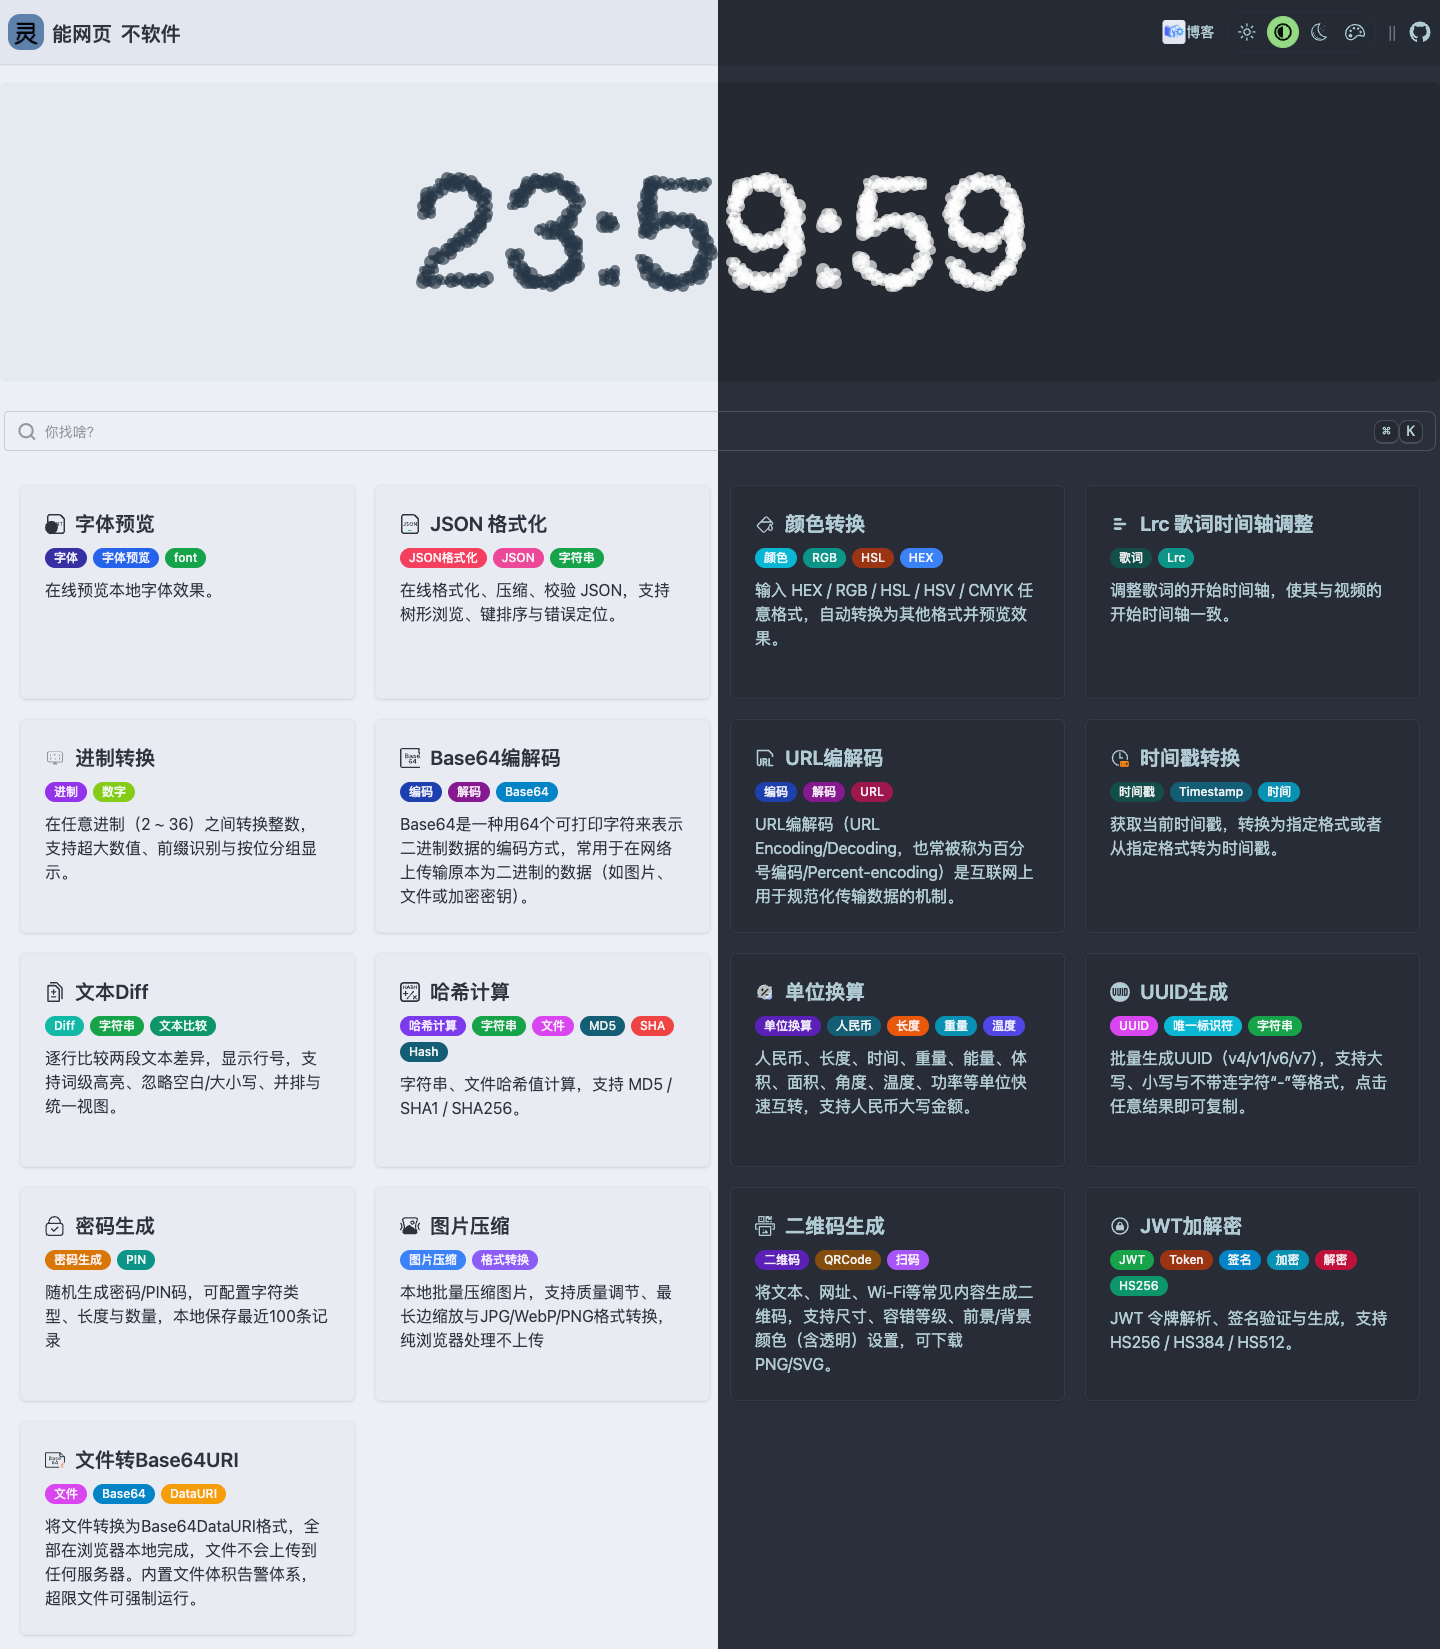
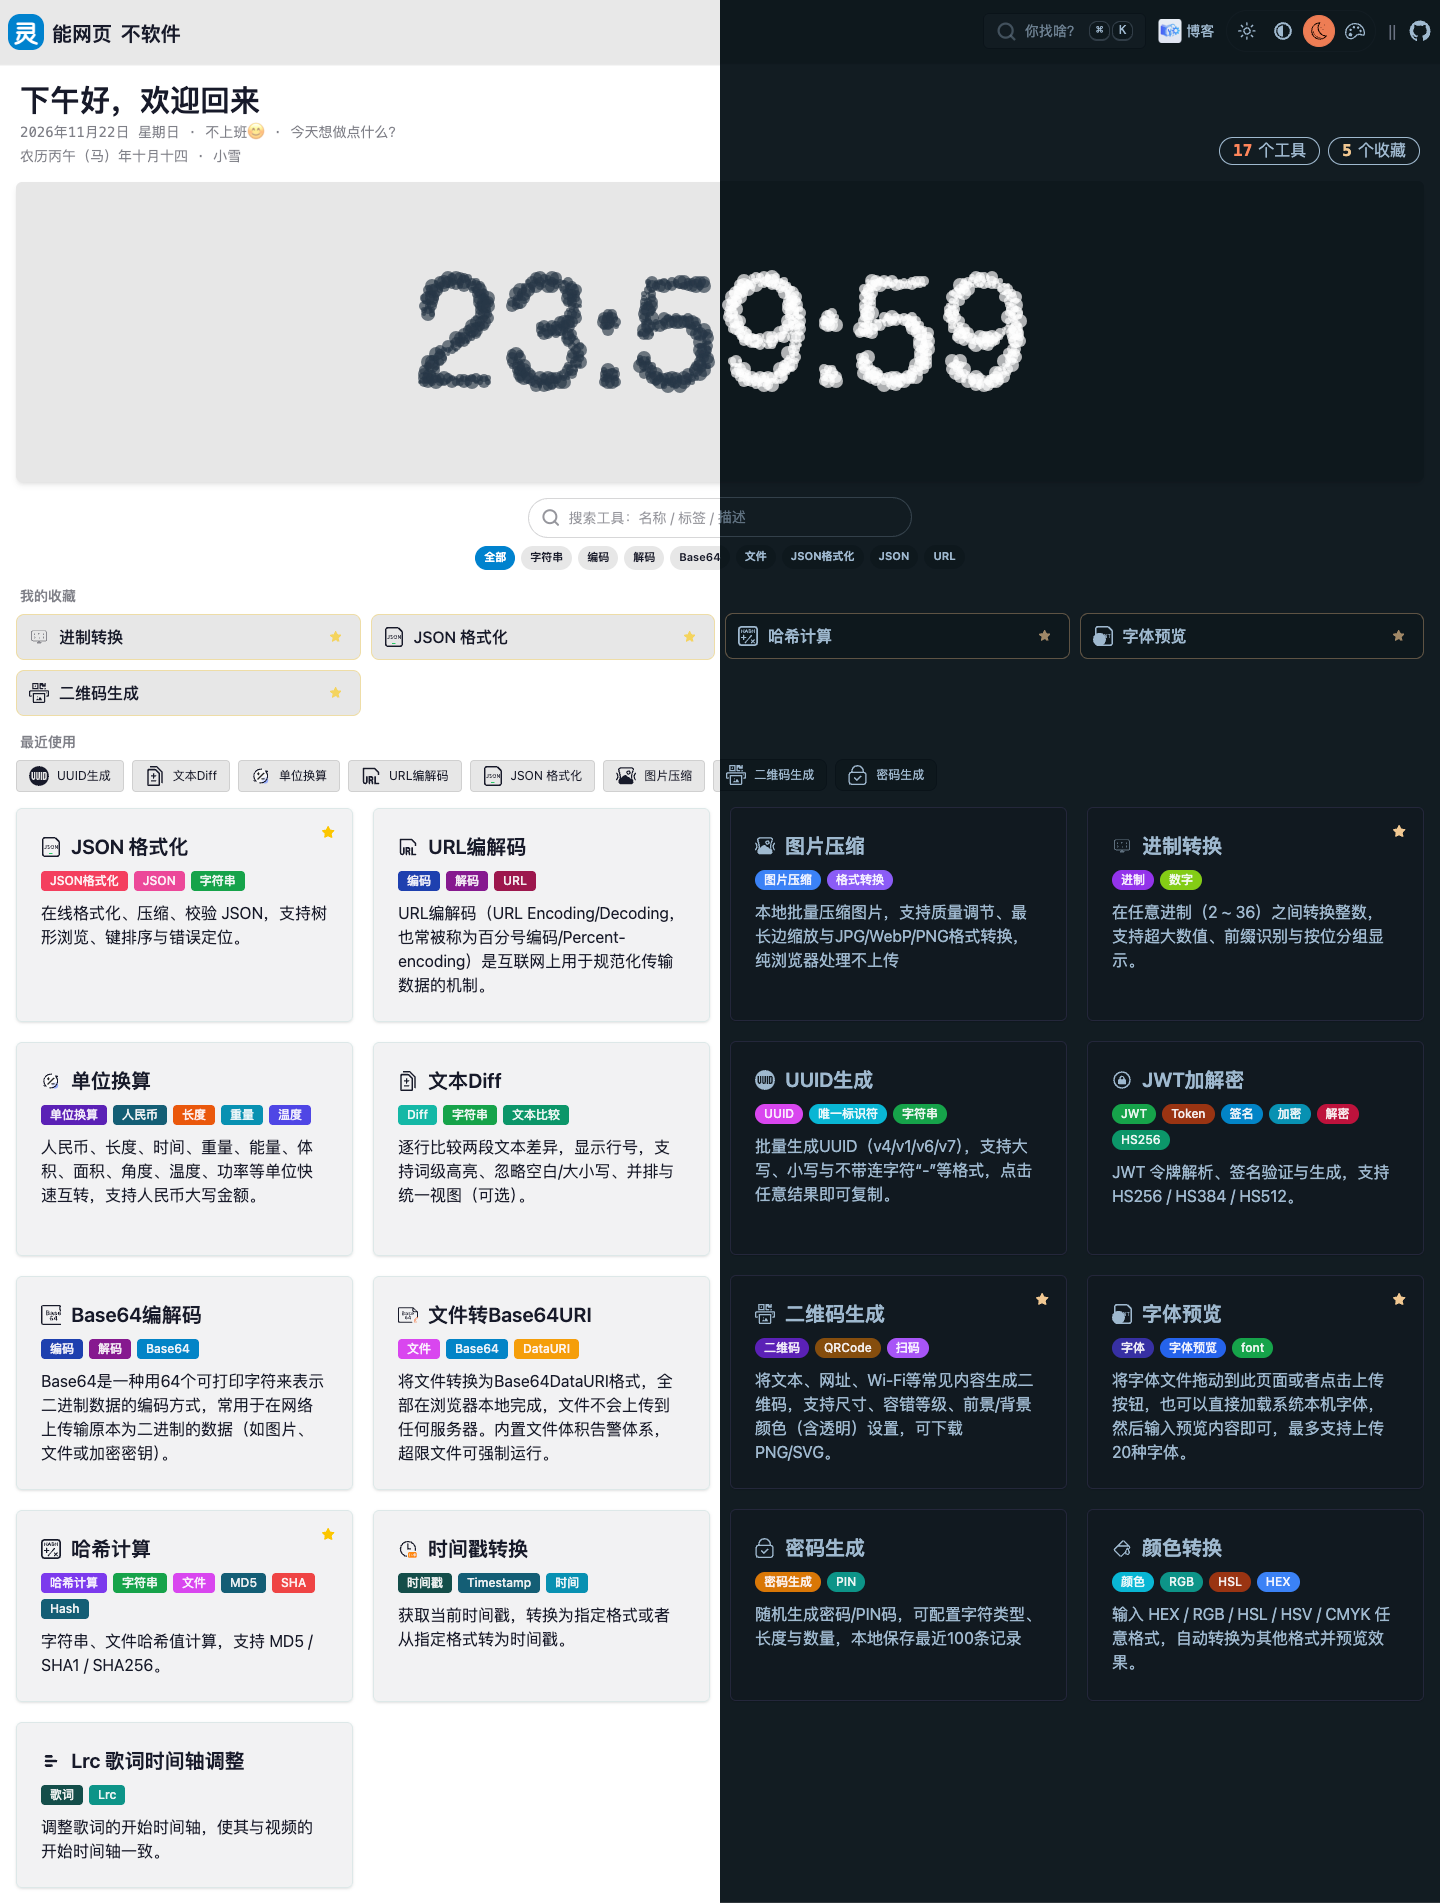
首页优化

diff --git a/src/views/Home/index.vue b/src/views/Home/index.vue
@@ -1,29 +1,104 @@
 <!-- 首页路由组件 -->
 <template>
-  <div class="flex flex-col items-center justify-center gap-1 p-4">
+  <div class="flex flex-col items-center justify-center gap-4 p-4">
+    <!-- 问候语 + 日期 + 统计 -->
+    <div class="w-full flex flex-wrap items-end justify-between gap-2 px-1">
+      <div class="flex flex-col gap-1">
+        <HomeGreeting/>
+      </div>
+      <div class="flex gap-2 text-sm">
+        <span class="badge badge-lg badge-outline gap-1.5 font-mono">
+          <b class="text-primary">{{ allTools.length }}</b> 个工具
+        </span>
+        <span v-if="appData.favoriteTools.length" class="badge badge-lg badge-outline gap-1.5 font-mono">
+          <b class="text-warning">{{ appData.favoriteTools.length }}</b> 个收藏
+        </span>
+      </div>
+    </div>
+
     <!-- 粒子时钟 -->
-    <div class="w-full h-[25lvh] bg-base-200 rounded-md mb-3 flex justify-center items-center shadow-md">
+    <div class="w-full h-[25lvh] bg-base-200 rounded-md flex justify-center items-center shadow-md">
       <DynamicClock :color="currRealMode === 'dark' ? '#FFFFFFA1' : '#283747AF'" :density="4"/>
     </div>
+
+    <!-- 搜索 + 标签筛选 -->
+    <div class="w-full flex flex-col gap-2">
+      <label class="input w-full sm:w-96 sm:self-center rounded-full">
+        <Search/>
+        <input v-model="keyword" type="search" class="grow" placeholder="搜索工具：名称 / 标签 / 描述" spellcheck="false"/>
+        <button v-if="keyword" class="btn btn-ghost btn-xs btn-circle" title="清空搜索" @click="keyword = ''">
+          <Close class="size-4"/>
+        </button>
+      </label>
+      <div class="flex flex-wrap justify-center gap-1.5">
+        <button class="btn btn-xs rounded-full" :class="activeTag === '' ? 'btn-primary' : 'btn-ghost bg-base-200'"
+                @click="activeTag = ''">全部</button>
+        <button v-for="tag in hotTags" :key="tag"
+                class="btn btn-xs rounded-full" :class="activeTag === tag ? 'btn-primary' : 'btn-ghost bg-base-200'"
+                @click="activeTag = activeTag === tag ? '' : tag">{{ tag }}</button>
+      </div>
+    </div>
+
+    <!-- 收藏的工具 -->
+    <section v-if="favoriteRoutes.length && !isFiltering" class="w-full">
+      <h2 class="text-sm font-semibold opacity-60 mb-2 px-1">我的收藏</h2>
+      <div class="grid grid-cols-2 sm:grid-cols-3 lg:grid-cols-4 gap-2.5">
+        <div v-for="tool in favoriteRoutes" :key="tool.path"
+             class="flex items-center gap-2.5 rounded-lg border border-warning/30 bg-base-200 px-3 py-2.5 cursor-pointer
+                    hover:border-warning hover:shadow-sm transition-all group"
+             @click="openTool(tool.path)">
+          <component v-if="tool.meta?.icon" :is="tool.meta.icon" class="shrink-0"/>
+          <span class="font-medium truncate grow">{{ tool.meta?.title }}</span>
+          <button class="btn btn-ghost btn-xs btn-circle text-warning opacity-60 group-hover:opacity-100"
+                  title="取消收藏" @click.stop="appData.toggleFavoriteTool(tool.path)">
+            <Star filled/>
+          </button>
+        </div>
+      </div>
+    </section>
+
+    <!-- 最近使用 -->
+    <section v-if="recentRoutes.length && !isFiltering" class="w-full">
+      <h2 class="text-sm font-semibold opacity-60 mb-2 px-1">最近使用</h2>
+      <div class="flex flex-wrap gap-2">
+        <button v-for="tool in recentRoutes" :key="tool.path"
+                class="btn btn-sm bg-base-200 border-base-300 font-normal gap-2 hover:border-primary"
+                @click="openTool(tool.path)">
+          <component v-if="tool.meta?.icon" :is="tool.meta.icon"/>
+          {{ tool.meta?.title }}
+        </button>
+      </div>
+    </section>
+
     <!-- 卡片网格 -->
-    <div class="w-full min-h-[70lvh] grid grid-cols-[repeat(auto-fill,minmax(300px,1fr))] grid-rows-[repeat(auto-fill,minmax(200px,1fr))] gap-5">
-      <div v-if="!cardRoutes || cardRoutes.length === 0" class="col-span-full flex items-center justify-center text-base-content/60">啥也没有</div>
+    <div class="w-full min-h-[40lvh] grid grid-cols-[repeat(auto-fill,minmax(300px,1fr))] grid-rows-[repeat(auto-fill,minmax(200px,1fr))] gap-5">
+      <div v-if="!filteredRoutes.length" class="col-span-full flex flex-col items-center justify-center gap-2 text-base-content/60">
+        <Search class="size-8 opacity-40"/>
+        <p>{{ isFiltering ? '没有找到匹配的工具，换个关键词试试' : '啥也没有' }}</p>
+        <button v-if="isFiltering" class="btn btn-sm btn-ghost" @click="keyword = ''; activeTag = ''">清除筛选条件</button>
+      </div>
       <!-- 卡片 -->
-      <div v-for="(card, index) in cardRoutes"
-           :key="index"
+      <div v-for="card in filteredRoutes"
+           :key="card.path"
            title="点击跳转"
-           @click="router.push(card.path)"
-           class="flex flex-col justify-start gap-2.5 border border-accent/10 rounded-md p-6 overflow-hidden bg-base-200/55
+           @click="openTool(card.path)"
+           class="relative flex flex-col justify-start gap-2.5 border border-accent/10 rounded-md p-6 overflow-hidden bg-base-200/55
              shadow-sm cursor-pointer hover:border-primary hover:shadow-[0_0_10px_var(--color-primary)] hover:-translate-y-1.25
-             transition-all duration-200 ease-in-out">
+             transition-all duration-200 ease-in-out group">
+        <!-- 收藏按钮 -->
+        <button class="btn btn-ghost btn-sm btn-circle absolute top-2 right-2 z-10
+                       opacity-0 group-hover:opacity-100 transition-opacity"
+                :class="appData.favoriteTools.includes(card.path) ? 'text-warning opacity-100!' : 'text-base-content/50'"
+                :title="appData.favoriteTools.includes(card.path) ? '取消收藏' : '收藏'"
+                @click.stop="appData.toggleFavoriteTool(card.path)">
+          <Star :filled="appData.favoriteTools.includes(card.path)"/>
+        </button>
         <!-- 卡片标题 -->
         <div class="flex items-center gap-2.5">
-          <!-- 卡片图标 -->
           <component v-if="card.meta?.icon" :is="card.meta.icon"/>
-          <!-- 卡片标题 -->
           <h2 class="text-xl font-semibold">{{ card.meta?.title }}</h2>
         </div>
-        <!-- 卡片标签 -->
+        <!-- 卡片标签（仅展示，筛选统一走顶部标签按钮，避免点卡片时误触） -->
         <div v-if="cardTags(card).length" class="flex flex-wrap gap-1.5">
           <span v-for="(tag, ti) in cardTags(card)"
                 :key="ti"
@@ -38,26 +113,71 @@
   </div>
 </template>
 <script lang="ts" setup>
-import { computed, toRef } from 'vue';
-import DynamicClock from '@/components/DynamicClock';
-import useSettingsStore from '@/stores/settingsStore';
+import { computed, ref, toRef } from 'vue';
 import { routes, flattenRoute } from '@/router';
 import { useRouter, type RouteRecordRaw } from 'vue-router';
+import useSettingsStore from '@/stores/settingsStore';
+import useAppDataStore from '@/stores/appData';
+import DynamicClock from '@/components/DynamicClock';
+import Search from '@/components/icons/Search.vue';
+import Close from '@/components/icons/Close.vue';
+import Star from '@/components/icons/Star.vue';
+import HomeGreeting from '@/components/HomeGreeting.vue';
 
 const currRealMode = toRef(useSettingsStore(), 'currRealMode');
-const cardRoutes = computed(() => flattenRoute(routes)
+const appData = useAppDataStore();
+const router = useRouter();
+
+/* ------------------------- 工具数据 ------------------------- */
+const allTools = computed(() => flattenRoute(routes)
     .filter(route => !route.meta?.hidden)
     .filter(route => route.path.startsWith('/tools/'))
 );
-const router = useRouter();
+const routeByPath = (path: string) => allTools.value.find(r => r.path === path);
+
+/** 收藏的工具（过滤掉已下线的路由） */
+const favoriteRoutes = computed(() => appData.favoriteTools.map(routeByPath).filter((r): r is RouteRecordRaw => !!r));
+/** 最近使用（过滤掉已下线的路由） */
+const recentRoutes = computed(() => appData.recentTools.map(r => routeByPath(r.path)).filter((r): r is RouteRecordRaw => !!r));
+
+/** 打开工具并记录最近使用 */
+const openTool = (path: string) => {
+  appData.pushRecentTool(path);
+  router.push(path);
+};
+
+/* ------------------------- 搜索与筛选 ------------------------- */
+const keyword = ref('');
+const activeTag = ref('');
+const isFiltering = computed(() => !!keyword.value.trim() || !!activeTag.value);
+
+/** 热门标签：按出现次数取前 8 个 */
+const hotTags = computed(() => {
+  const count = new Map<string, number>();
+  for (const tool of allTools.value) {
+    for (const tag of cardTags(tool)) count.set(tag, (count.get(tag) ?? 0) + 1);
+  }
+  return [...count.entries()].sort((a, b) => b[1] - a[1]).slice(0, 8).map(([tag]) => tag);
+});
+
+const filteredRoutes = computed(() => {
+  const kw = keyword.value.trim().toLowerCase();
+  const words = kw.split(/\s+/).filter(Boolean);
+  return allTools.value.filter(tool => {
+    if (activeTag.value && !cardTags(tool).includes(activeTag.value)) return false;
+    if (!words.length) return true;
+    const title = String(tool.meta?.title ?? '').toLowerCase();
+    const desc = String(tool.meta?.desc ?? '').toLowerCase();
+    const tags = cardTags(tool).join(' ').toLowerCase();
+    return words.every(w => title.includes(w) || desc.includes(w) || tags.includes(w));
+  });
+});
 
 /**
  * 获取卡片路由的标签列表
  * @param card {RouteRecordRaw} 卡片路由
  */
-const cardTags = (card: RouteRecordRaw): string[] => {
-  return (card.meta?.tags as string[] | undefined) ?? [];
-};
+const cardTags = (card: RouteRecordRaw): string[] => (card.meta?.tags as string[] | undefined) ?? [];
 
 /** 标签颜色调色板（保证同名标签颜色稳定） */
 const TAG_COLORS = [

diff --git a/src/components/HomeGreeting.vue b/src/components/HomeGreeting.vue
@@ -1,0 +1,67 @@
+<!-- 首页问候语模块组件 -->
+<template>
+  <h1 class="text-2xl sm:text-3xl font-bold">{{ greeting }}，欢迎回来</h1>
+  <p class="text-sm opacity-60 font-mono">{{ today }}</p>
+  <p class="text-sm opacity-60 font-mono">{{ lunarToday }}</p>
+</template>
+<script lang="ts" setup>
+import { computed } from 'vue';
+import {
+  isWorkday,
+  getDayDetail,
+  getLunarFestivals,
+  getLunarDate,
+  getHolidaysInRange,
+  getSolarTerms,
+} from 'chinese-days';
+
+const now = new Date();
+const start = now.format('yyyy-01-01');
+const end = now.format('yyyy-12-31');
+const todayDate = now.format('yyyy-MM-dd');
+// 节假日
+const holidayMap = Object.fromEntries(getHolidaysInRange(start, end, false)
+    .map(d => getDayDetail(d))
+    .map(d => [d.date, d])) as Record<string, ReturnType<typeof getDayDetail>>;
+// 民俗节日与纪念日
+const lunarFestivalMap = Object.fromEntries(getLunarFestivals(start, end)
+    .map(d => [d.date, d])) as Record<string, ReturnType<typeof getLunarFestivals>[number]>;
+// 24节气
+const solarTermMap = Object.fromEntries(getSolarTerms(start, end)
+    .map(d => [d.date, d])) as Record<string, ReturnType<typeof getSolarTerms>[number]>;
+
+const greeting = computed(() => {
+  const h = now.getHours();
+  if (h < 5) return '夜深了';
+  if (h < 11) return '早上好';
+  if (h < 14) return '中午好';
+  if (h < 18) return '下午好';
+  return '晚上好';
+});
+const today = computed(() => {
+  const todayItems = [];
+  todayItems.push(now.format('yyyy年MM月dd日 EEE'));
+  const holiday = holidayMap[todayDate];
+  if (holiday) {
+    todayItems.push(holiday.name.split(',')[1]);
+  }
+  todayItems.push(isWorkday(now) ? '搬砖搬砖😕' : '不上班😊');
+  todayItems.push('今天想做点什么？');
+  return todayItems.join(' · ')
+});
+const lunarToday = computed(() => {
+  const lunarTodayItems = [];
+  const lunar = getLunarDate(now);
+  // const zhiIdx = Math.floor(((now.getHours() + 1) % 24) / 2);
+  lunarTodayItems.push(`农历${lunar.yearCyl}（${lunar.zodiac}）年${lunar.lunarMonCN}${lunar.lunarDayCN}`);
+  const solarTerm = solarTermMap[todayDate];
+  if (solarTerm) {
+    lunarTodayItems.push(solarTerm.name);
+  }
+  const lunarFestival = lunarFestivalMap[todayDate];
+  if (lunarFestival) {
+    lunarTodayItems.push(`【${lunarFestival.name.join('、')}】`);
+  }
+  return lunarTodayItems.join(' · ');
+});
+</script>

diff --git a/src/stores/appData/index.ts b/src/stores/appData/index.ts
@@ -29,6 +29,24 @@ const useAppDataStore = defineStore('appData', () => {
   /** 颜色转换历史 */
   const cvtColorHistories = ref<string[]>([]);
 
+  /** 收藏的工具路径（按收藏先后顺序） */
+  const favoriteTools = ref<string[]>([]);
+  /** 最近使用的工具（最新在前，最多8条） */
+  const recentTools = ref<{ path: string; time: number }[]>([]);
+
+  /** 切换工具收藏状态 */
+  const toggleFavoriteTool = (path: string) => {
+    const idx = favoriteTools.value.indexOf(path);
+    if (idx >= 0) favoriteTools.value.splice(idx, 1);
+    else favoriteTools.value.push(path);
+  };
+
+  /** 记录一次工具使用 */
+  const pushRecentTool = (path: string) => recentTools.value = [
+    { path, time: Date.now() },
+    ...recentTools.value.filter(r => r.path !== path).slice(0, 7)
+  ];
+
   /** 密码生成最近记录（最多100条，最新在前） */
   const passwordGenRecords = ref<PasswordGenRecord[]>([]);
 
@@ -67,7 +85,8 @@ const useAppDataStore = defineStore('appData', () => {
 
   return {
     cvtColorHistories, pushCvtColorHistory, clearCvtColorHistory,
-    passwordGenRecords, pushPasswordGenRecord, removePasswordGenRecord, clearPasswordGenHistory
+    passwordGenRecords, pushPasswordGenRecord, removePasswordGenRecord, clearPasswordGenHistory,
+    favoriteTools, toggleFavoriteTool, recentTools, pushRecentTool
   };
 }, { persist: true });
 

diff --git a/src/components/icons/Star.vue b/src/components/icons/Star.vue
@@ -1,0 +1,17 @@
+<!-- Star图标 -->
+<template>
+  <svg xmlns="http://www.w3.org/2000/svg"
+       viewBox="0 0 24 24"
+       class="size-[1.2em]"
+       :fill="props.filled ? 'currentColor' : 'none'"
+       stroke="currentColor"
+       stroke-width="1.8"
+       stroke-linecap="round"
+       stroke-linejoin="round"
+  >
+    <path d="M12 2.5l2.95 5.98 6.6.96-4.78 4.66 1.13 6.58L12 17.57l-5.9 3.1 1.13-6.58L2.45 9.44l6.6-.96L12 2.5z"/>
+  </svg>
+</template>
+<script lang="ts" setup>
+const props = withDefaults(defineProps<{ filled?: boolean }>(), { filled: false });
+</script>

diff --git a/src/components/icons/Search.vue b/src/components/icons/Search.vue
@@ -1,3 +1,4 @@
+<!-- 搜索图标 -->
 <template>
   <svg class="h-[1.5em] opacity-50" xmlns="http://www.w3.org/2000/svg" viewBox="0 0 24 24">
     <g
